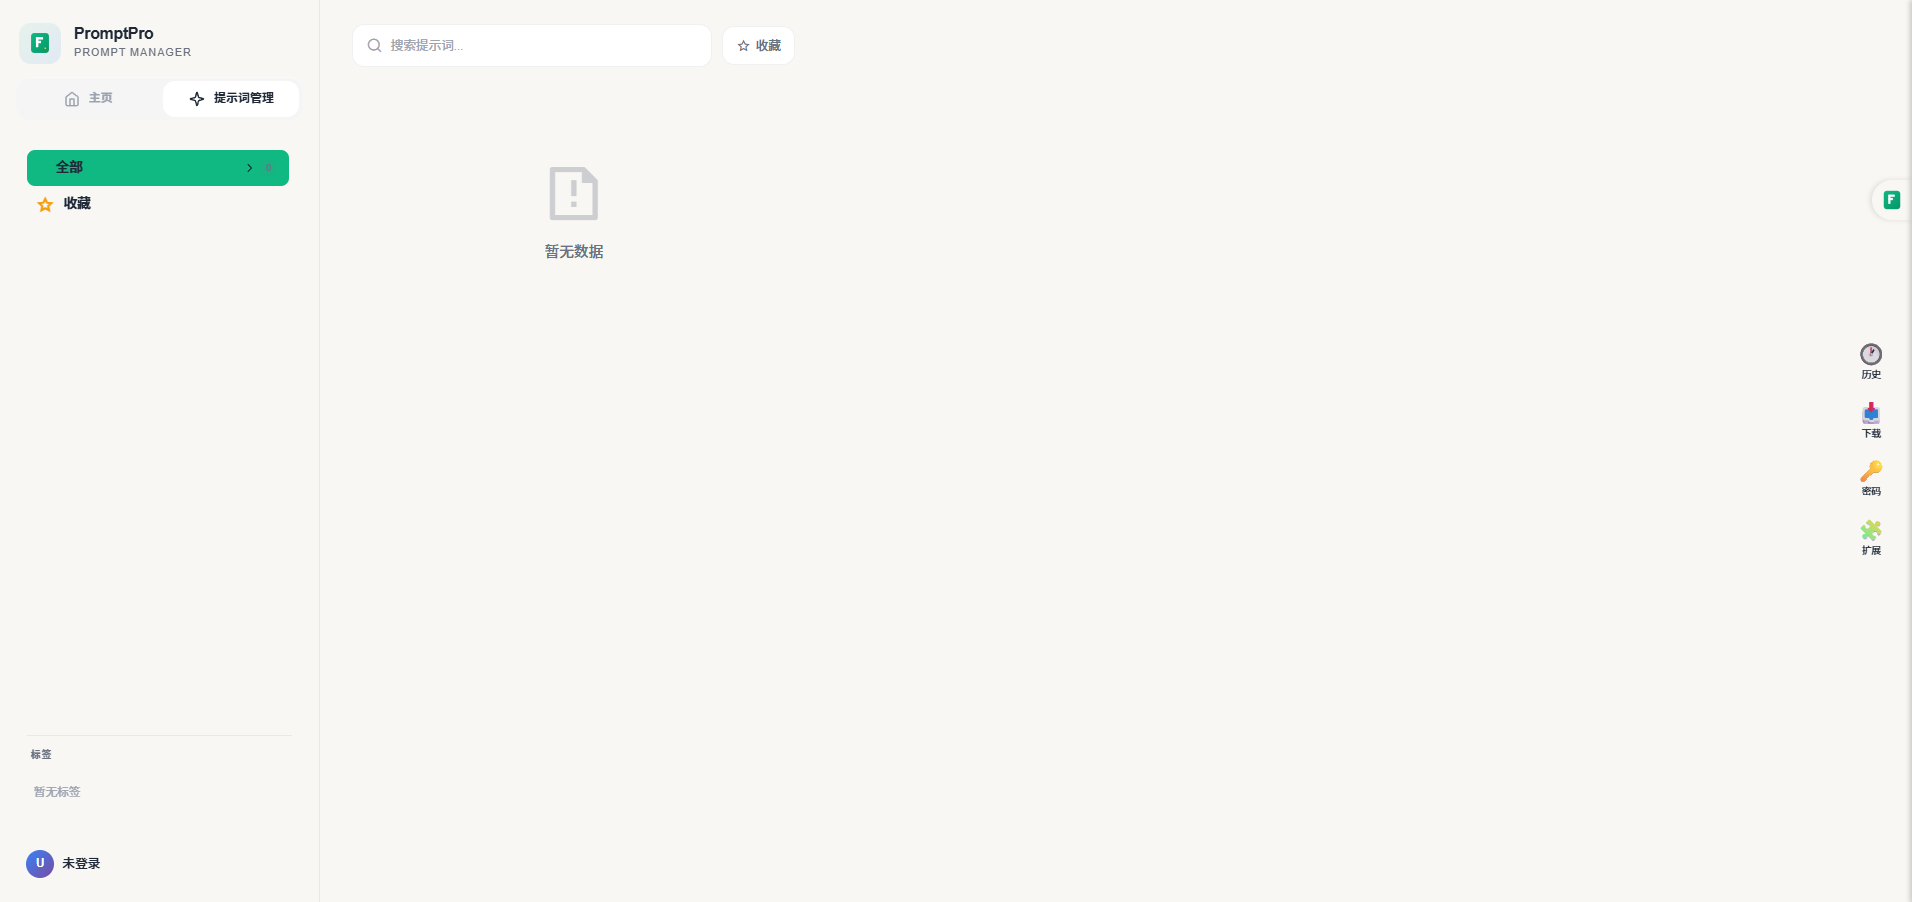
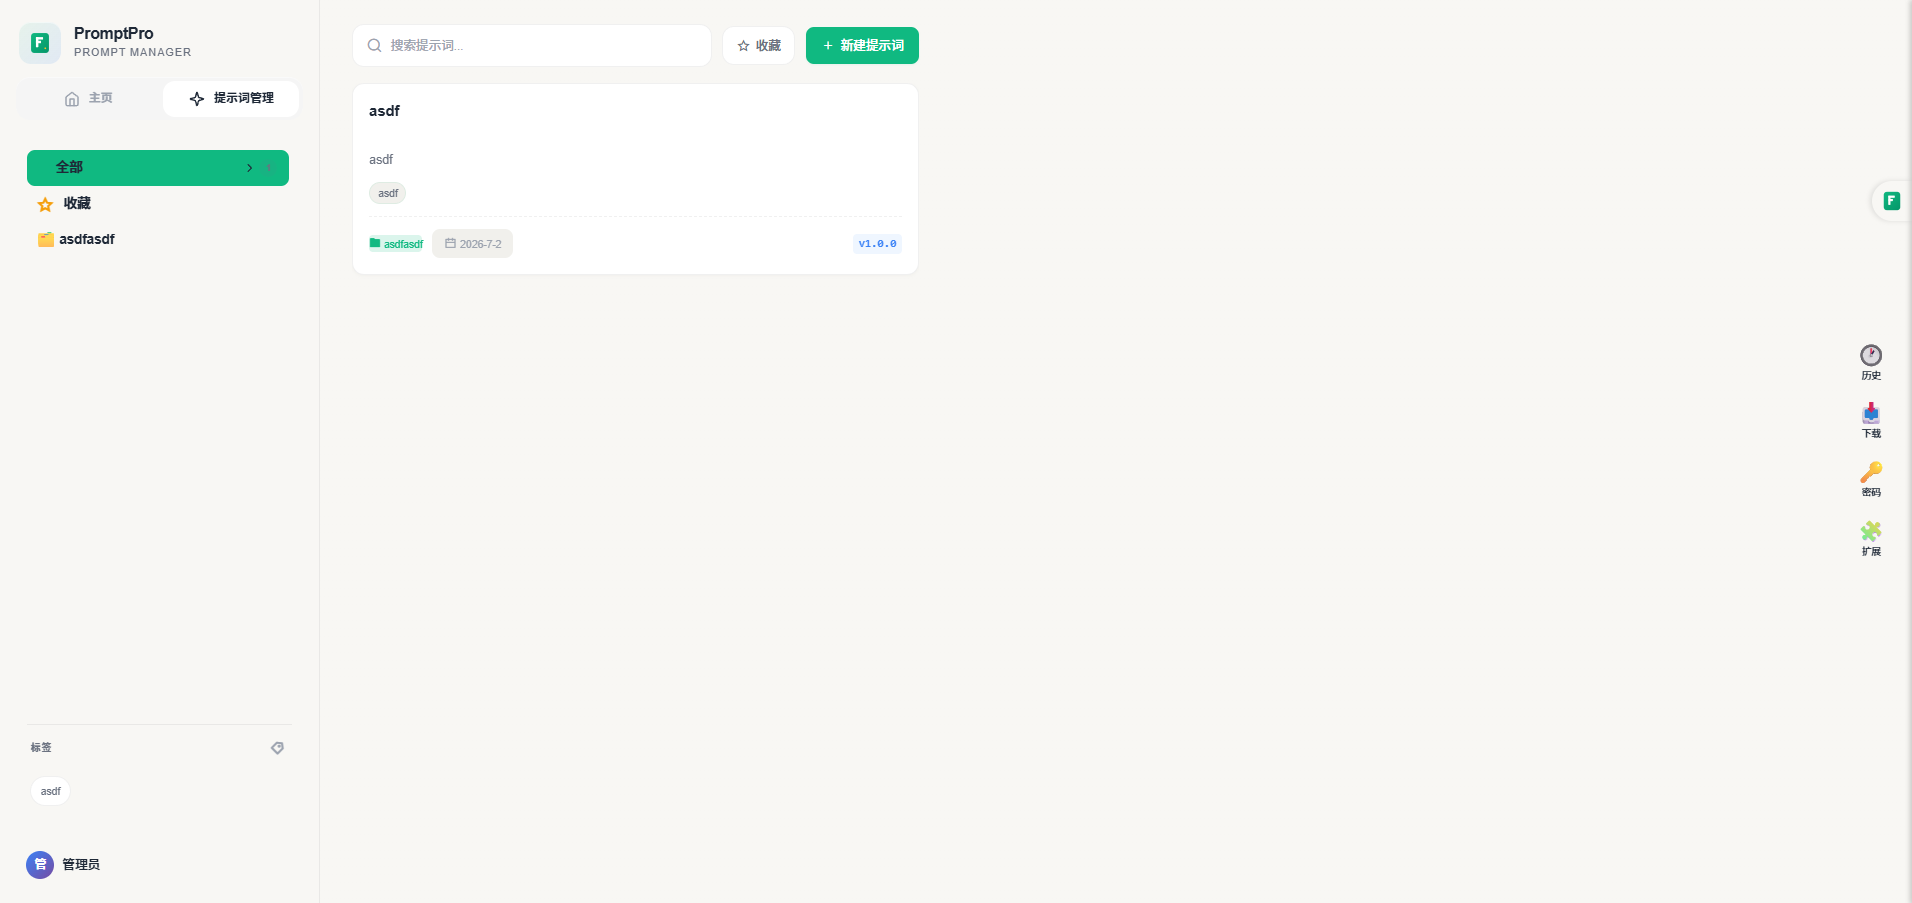
chore: 更新截图文档 + 修复 admin cookie secure 适配 HTTP + 提示词文件夹创建无需选用户

diff --git a/favshub-nuxt/pages/admin/prompts.vue b/favshub-nuxt/pages/admin/prompts.vue
@@ -145,11 +145,7 @@
         <div class="modal-header"><h3>{{ folderEditId ? '编辑文件夹' : '新建文件夹' }}</h3><button class="modal-close" @click="folderEditVisible = false">&times;</button></div>
         <div class="modal-body">
           <div class="fg"><label>名称</label><input v-model="folderEditForm.name" type="text" placeholder="文件夹名称"></div>
-          <div class="fg" v-if="!folderEditId"><label>用户</label>
-            <select v-model="folderEditForm.user_id">
-              <option v-for="u in users" :key="u.id" :value="u.id">{{ u.username }}</option>
-            </select>
-          </div>
+          <!-- 新建文件夹自动使用当前登录用户，无需选择 -->
           <div class="fg"><label>父文件夹</label>
             <select v-model="folderEditForm.parent_id">
               <option :value="null">无（顶级）</option>
@@ -276,15 +272,14 @@ function toggleAllPFolders() {
   }
 }
 async function loadPFolders() { pfLoading.value = true; const d = await $fetch<{ folders: any[] }>('/api/admin/prompt-folders', { headers: getAuthHeaders() }); pFolders.value = d.folders || []; pfLoading.value = false }
-function createPFolder() { Object.assign(folderEditForm, { name: '', parent_id: null, icon: '', user_id: users.value[0]?.id || null, sort_order: 0, login_required: 0 }); folderEditId.value = null; folderEditVisible.value = true }
+function createPFolder() { Object.assign(folderEditForm, { name: '', parent_id: null, icon: '', user_id: currentUserId.value, sort_order: 0, login_required: 0 }); folderEditId.value = null; folderEditVisible.value = true }
 function openFolderEdit(f: any) { Object.assign(folderEditForm, { name: f.name, parent_id: f.parent_id || null, icon: f.icon || '', user_id: f.user_id, sort_order: f.sort_order || 0, login_required: f.login_required || 0 }); folderEditId.value = f.id; folderEditVisible.value = true }
 async function saveFolderEdit() {
   if (!folderEditForm.name.trim()) return alert('请输入文件夹名称')
   if (folderEditId.value) {
     await $fetch(`/api/admin/prompt-folders/${folderEditId.value}`, { method: 'PUT', headers: getAuthHeaders(), body: { name: folderEditForm.name, parent_id: folderEditForm.parent_id, icon: folderEditForm.icon || null, sort_order: folderEditForm.sort_order, login_required: folderEditForm.login_required } })
   } else {
-    if (!folderEditForm.user_id) return alert('请选择用户')
-    await $fetch('/api/admin/prompt-folders', { method: 'POST', headers: getAuthHeaders(), body: { name: folderEditForm.name, parent_id: folderEditForm.parent_id, icon: folderEditForm.icon || null, user_id: folderEditForm.user_id, sort_order: folderEditForm.sort_order, login_required: folderEditForm.login_required } })
+    await $fetch('/api/admin/prompt-folders', { method: 'POST', headers: getAuthHeaders(), body: { name: folderEditForm.name, parent_id: folderEditForm.parent_id, icon: folderEditForm.icon || null, sort_order: folderEditForm.sort_order, login_required: folderEditForm.login_required } })
   }
   folderEditVisible.value = false
   loadPFolders()

diff --git a/favshub-nuxt/server/api/admin/prompt-folders/index.post.ts b/favshub-nuxt/server/api/admin/prompt-folders/index.post.ts
@@ -9,23 +9,23 @@ export default defineEventHandler(async (event) => {
   requireAuth(event)
   const db = getRawDb()
 
+  const auth = requireAuth(event)
   const body = await readBody(event)
   const { name, user_id, parent_id, icon, sort_order, login_required } = body
 
   if (!name) {
     throw createError({ statusCode: 400, data: { error: '文件夹名称不能为空' } })
   }
-  if (!user_id) {
-    throw createError({ statusCode: 400, data: { error: '必须指定用户 ID' } })
-  }
+  // 未指定 user_id 时使用当前认证用户
+  const ownerId = user_id || auth.id
 
-  const user = db.prepare('SELECT id FROM users WHERE id = ?').get(user_id) as any
+  const user = db.prepare('SELECT id FROM users WHERE id = ?').get(ownerId) as any
   if (!user) {
     throw createError({ statusCode: 404, data: { error: '用户不存在' } })
   }
 
   if (parent_id) {
-    const parent = db.prepare('SELECT id FROM prompt_folders WHERE id = ? AND user_id = ?').get(parent_id, user_id) as any
+    const parent = db.prepare('SELECT id FROM prompt_folders WHERE id = ? AND user_id = ?').get(parent_id, ownerId) as any
     if (!parent) {
       throw createError({ statusCode: 404, data: { error: '父文件夹不存在' } })
     }
@@ -37,13 +37,13 @@ export default defineEventHandler(async (event) => {
   // Auto-calculate sort_order if not provided
   let finalSortOrder = sort_order
   if (finalSortOrder === undefined) {
-    const maxOrder = db.prepare('SELECT MAX(sort_order) as m FROM prompt_folders WHERE user_id = ?').get(user_id) as any
+    const maxOrder = db.prepare('SELECT MAX(sort_order) as m FROM prompt_folders WHERE user_id = ?').get(ownerId) as any
     finalSortOrder = (maxOrder?.m || 0) + 1
   }
 
   db.prepare('INSERT INTO prompt_folders (id, user_id, name, parent_id, icon, sort_order, login_required, created_at, updated_at) VALUES (?, ?, ?, ?, ?, ?, ?, ?, ?)').run(
     id,
-    user_id,
+    ownerId,
     name,
     parent_id || null,
     icon || '',

diff --git a/favshub-nuxt/server/middleware/admin-guard.ts b/favshub-nuxt/server/middleware/admin-guard.ts
@@ -19,8 +19,9 @@ export default defineEventHandler((event) => {
   // 验证 JWT
   const payload = verifyToken(token)
   if (!payload) {
-    // token 无效，清除 cookie 并跳转登录
-    setCookie(event, 'favshub_token', '', { path: '/', maxAge: 0, httpOnly: true, secure: true, sameSite: 'lax' })
+  // token 无效，清除 cookie 并跳转登录（secure 跟随当前协议）
+  const isSecure = getRequestProtocol(event) === 'https'
+  setCookie(event, 'favshub_token', '', { path: '/', maxAge: 0, httpOnly: true, secure: isSecure, sameSite: 'lax' })
     return sendRedirect(event, `/login?redirect=${encodeURIComponent(path)}`, 302)
   }
 

diff --git a/favshub-nuxt/server/api/auth/logout.post.ts b/favshub-nuxt/server/api/auth/logout.post.ts
@@ -2,10 +2,11 @@
  * POST /api/auth/logout — 登出（清除 httpOnly cookie）
  */
 export default defineEventHandler((event) => {
+  const isSecure = getRequestProtocol(event) === 'https'
   setCookie(event, 'favshub_token', '', {
     path: '/',
     httpOnly: true,
-    secure: true,
+    secure: isSecure,
     sameSite: 'lax',
     maxAge: 0,
   })

diff --git a/favshub-nuxt/README.md b/favshub-nuxt/README.md
@@ -6,7 +6,7 @@
 </p>
 
 <p align="center">
-  <img src="https://img.shields.io/badge/version-1.0.2-blue" alt="版本" />
+  <img src="https://img.shields.io/badge/version-1.0.3-blue" alt="版本" />
   <img src="https://img.shields.io/badge/Nuxt-3.21-00DC82?logo=nuxt" alt="Nuxt" />
   <img src="https://img.shields.io/badge/Vue-3.5-4FC08D?logo=vue.js" alt="Vue" />
   <img src="https://img.shields.io/badge/TypeScript-3178C6?logo=typescript" alt="TypeScript" />
@@ -15,8 +15,8 @@
 </p>
 
 <div align="center">
-  <img src="docs/screenshots/homepage.png" alt="主页" width="49%" />
-  <img src="docs/screenshots/homepage-logged-in.jpg" alt="登录后主页" width="49%" />
+  <img src="docs/screenshots/homepage.png" alt="首页（访客视图）" width="49%" />
+  <img src="docs/screenshots/homepage-logged-in.png" alt="登录后首页" width="49%" />
 </div>
 
 ---
@@ -61,8 +61,8 @@
         <em>首页 — 访客视图，搜索栏 + 文件夹侧栏 + 书签网格</em>
       </td>
       <td align="center" width="50%">
-        <a href="docs/screenshots/homepage-logged-in.jpg">
-          <img src="docs/screenshots/homepage-logged-in.jpg" alt="登录后首页" width="100%" />
+        <a href="docs/screenshots/homepage-logged-in.png">
+          <img src="docs/screenshots/homepage-logged-in.png" alt="登录后首页" width="100%" />
         </a>
         <br />
         <em>登录后首页 — 用户面板 + 书签全文展示</em>
@@ -70,12 +70,21 @@
     </tr>
     <tr>
       <td align="center" width="50%">
+        <a href="docs/screenshots/search-engine-panel.png">
+          <img src="docs/screenshots/search-engine-panel.png" alt="搜索引擎选择面板" width="100%" />
+        </a>
+        <br />
+        <em>搜索引擎选择面板 — 一键切换 29 款引擎</em>
+      </td>
+      <td align="center" width="50%">
         <a href="docs/screenshots/login.png">
           <img src="docs/screenshots/login.png" alt="登录页" width="100%" />
         </a>
         <br />
         <em>登录页 — 品牌展示，登录表单，搜索引擎快捷面板</em>
       </td>
+    </tr>
+    <tr>
       <td align="center" width="50%">
         <a href="docs/screenshots/prompts.png">
           <img src="docs/screenshots/prompts.png" alt="提示词管理" width="100%" />
@@ -83,15 +92,63 @@
         <br />
         <em>提示词管理 — 文件夹分类管理 AI 提示词</em>
       </td>
-    </tr>
-    <tr>
       <td align="center" width="50%">
         <a href="docs/screenshots/admin-dashboard.png">
-          <img src="docs/screenshots/admin-dashboard.png" alt="管理后台" width="100%" />
+          <img src="docs/screenshots/admin-dashboard.png" alt="管理后台仪表盘" width="100%" />
         </a>
         <br />
         <em>管理后台 — 统计概览：书签数、用户数、系统信息</em>
       </td>
+    </tr>
+    <tr>
+      <td align="center" width="50%">
+        <a href="docs/screenshots/admin-users.png">
+          <img src="docs/screenshots/admin-users.png" alt="用户管理" width="100%" />
+        </a>
+        <br />
+        <em>用户管理 — 查看和管理所有用户</em>
+      </td>
+      <td align="center" width="50%">
+        <a href="docs/screenshots/admin-bookmarks.png">
+          <img src="docs/screenshots/admin-bookmarks.png" alt="书签管理" width="100%" />
+        </a>
+        <br />
+        <em>书签管理 — 全局书签列表和文件夹管理</em>
+      </td>
+    </tr>
+    <tr>
+      <td align="center" width="50%">
+        <a href="docs/screenshots/admin-prompts.png">
+          <img src="docs/screenshots/admin-prompts.png" alt="提示词管理（后台）" width="100%" />
+        </a>
+        <br />
+        <em>提示词管理（后台） — 所有用户的提示词和标签</em>
+      </td>
+      <td align="center" width="50%">
+        <a href="docs/screenshots/admin-backup.png">
+          <img src="docs/screenshots/admin-backup.png" alt="备份管理" width="100%" />
+        </a>
+        <br />
+        <em>备份管理 — 数据下载与定时备份</em>
+      </td>
+    </tr>
+    <tr>
+      <td align="center" width="50%">
+        <a href="docs/screenshots/admin-settings.png">
+          <img src="docs/screenshots/admin-settings.png" alt="用户设置" width="100%" />
+        </a>
+        <br />
+        <em>用户设置 — 主题、布局、语言等个性化配置</em>
+      </td>
+      <td align="center" width="50%">
+        <a href="docs/screenshots/admin-config.png">
+          <img src="docs/screenshots/admin-config.png" alt="系统配置" width="100%" />
+        </a>
+        <br />
+        <em>系统配置 — JWT 密钥、管理员列表、备份设置</em>
+      </td>
+    </tr>
+    <tr>
       <td align="center" width="50%">
         <a href="docs/screenshots/search-engines.png">
           <img src="docs/screenshots/search-engines.png" alt="搜索引擎管理" width="100%" />
@@ -99,6 +156,7 @@
         <br />
         <em>搜索引擎管理 — 29 款内置引擎，拖拽排序</em>
       </td>
+      <td align="center" width="50%"></td>
     </tr>
   </table>
 </div>
